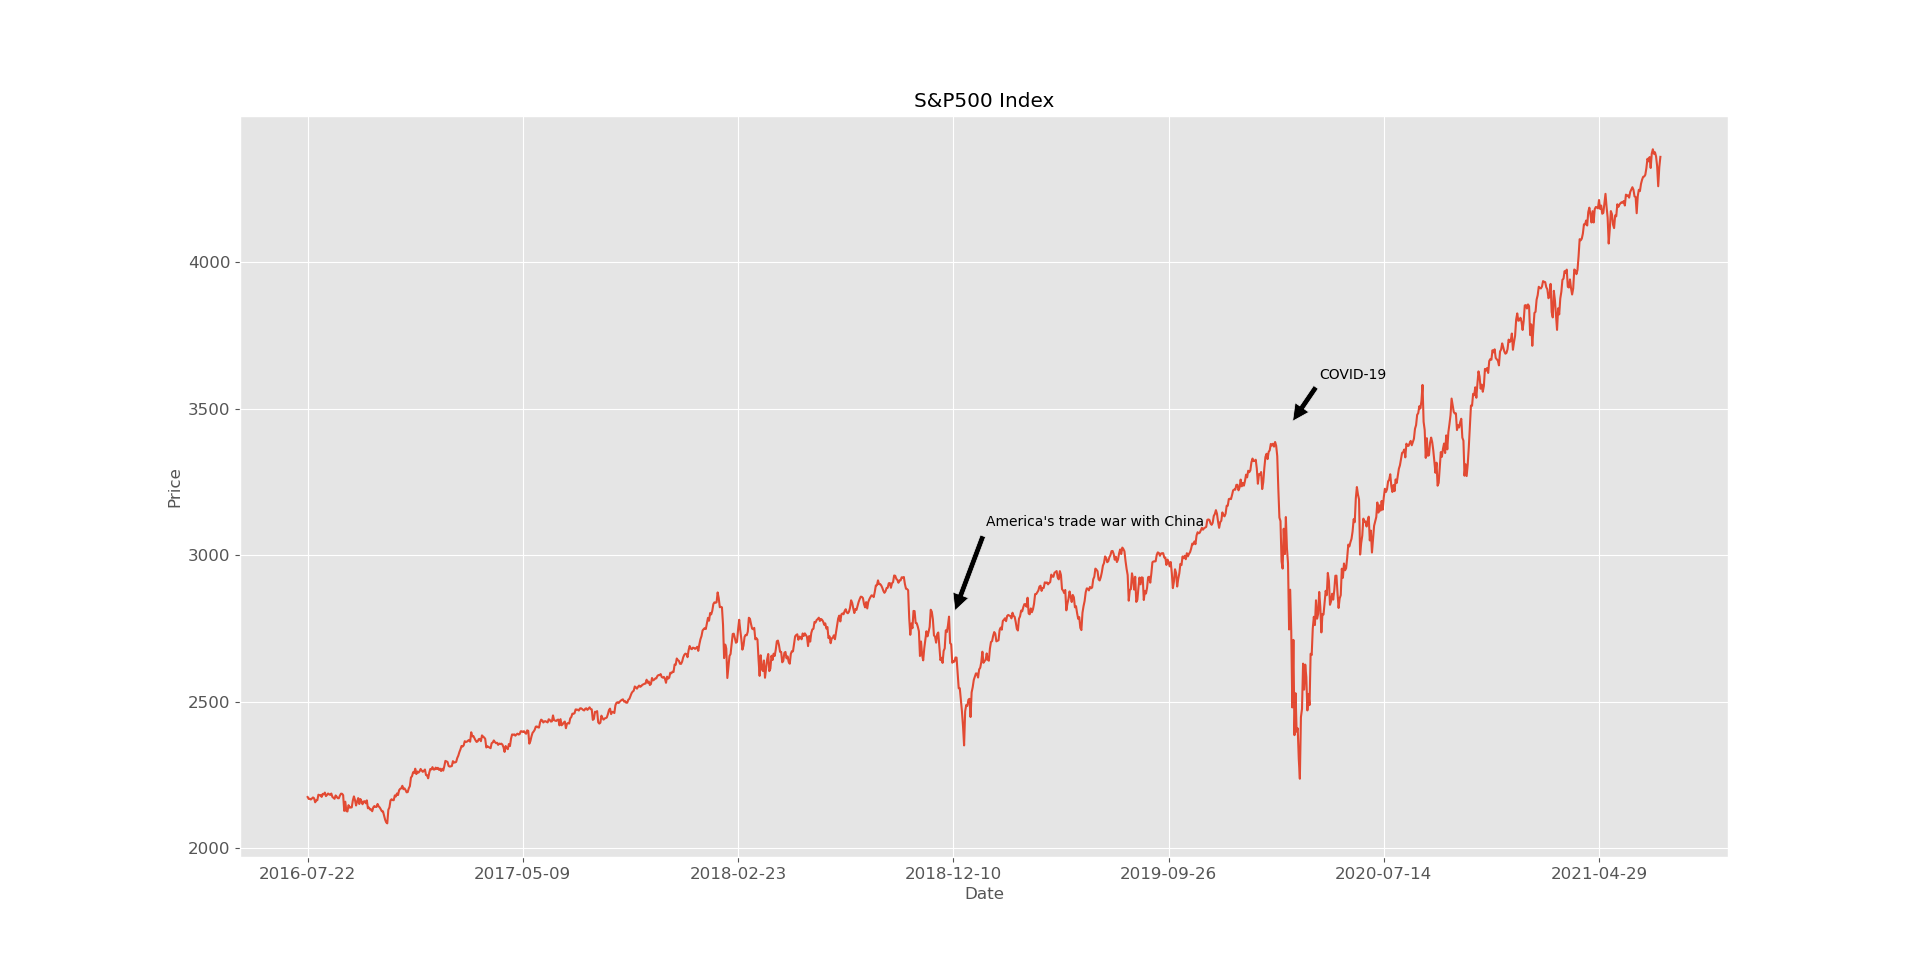
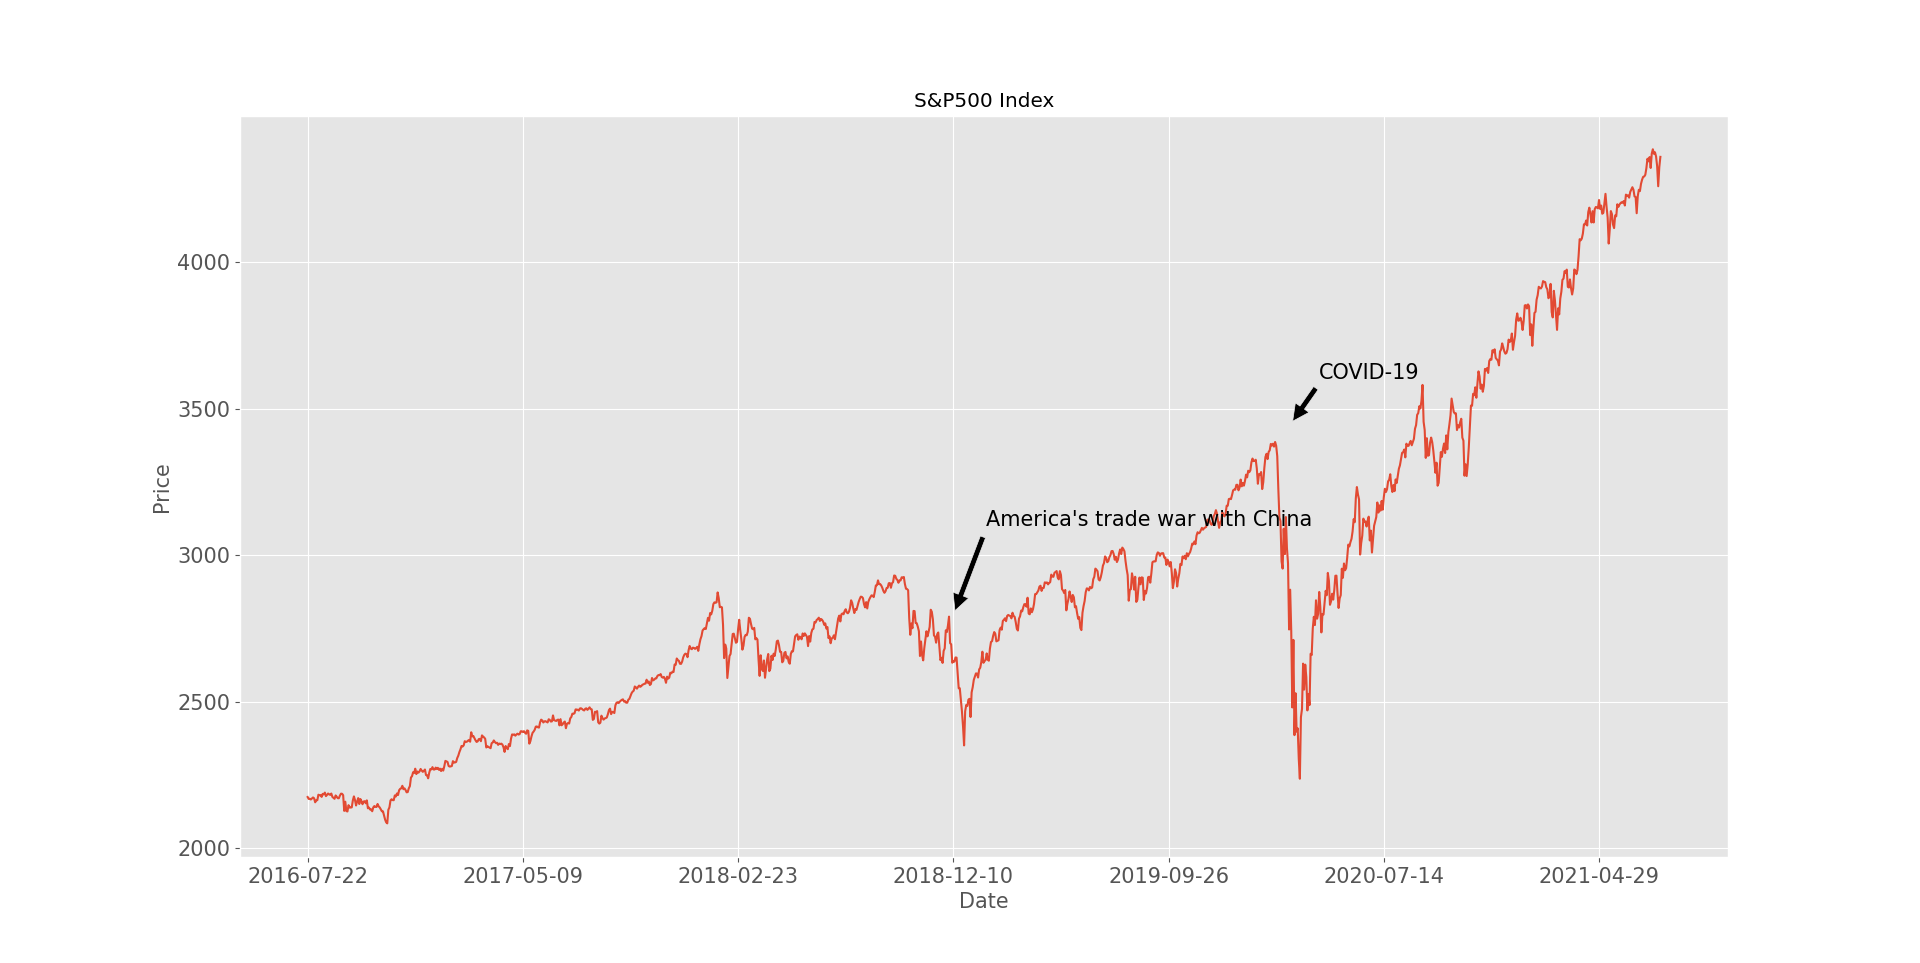
update text size in .py and .png

diff --git a/YahooFinance.py b/YahooFinance.py
@@ -30,12 +30,12 @@ df.to_csv('./YahooFinances_S&P500_5AÑOS.csv')
 
 # Plot Price data
 plt.style.use('ggplot')
-ax = df.plot(x = "Date", y = 'Close',title ="S&P500 Index", fontsize=12, legend = False)
-ax.set_xlabel("Date",fontsize=12)
-ax.set_ylabel("Price",fontsize=12)
-ax.annotate('COVID-19', xy=(914, 3450), xytext=(940, 3600),
+ax = df.plot(x = "Date", y = 'Close',title ="S&P500 Index", fontsize=15, legend = False)
+ax.set_xlabel("Date",fontsize=15)
+ax.set_ylabel("Price",fontsize=15)
+ax.annotate('COVID-19', xy=(914, 3450), xytext=(940, 3600),fontsize=15,
             arrowprops=dict(facecolor='black', shrink=0.05))
-ax.annotate("America's trade war with China", xy=(600, 2796), xytext=(630, 3100),
+ax.annotate("America's trade war with China", xy=(600, 2796), xytext=(630, 3100), fontsize=15,
             arrowprops=dict(facecolor='black', shrink=0.05))
 plt.show()
 
